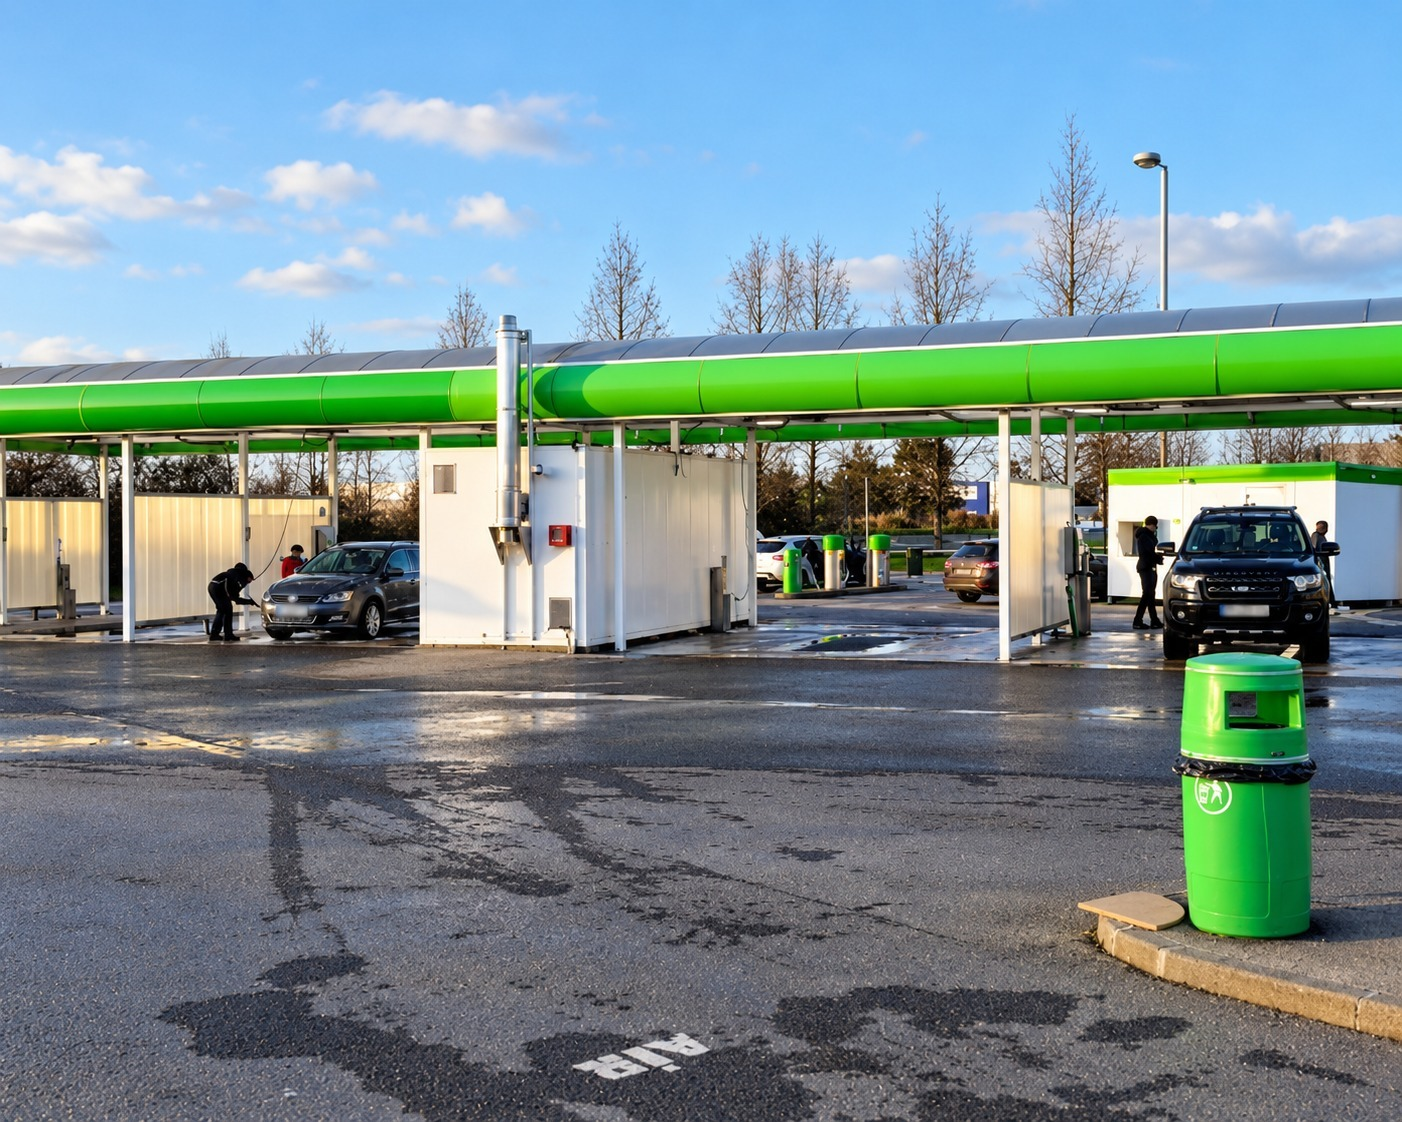
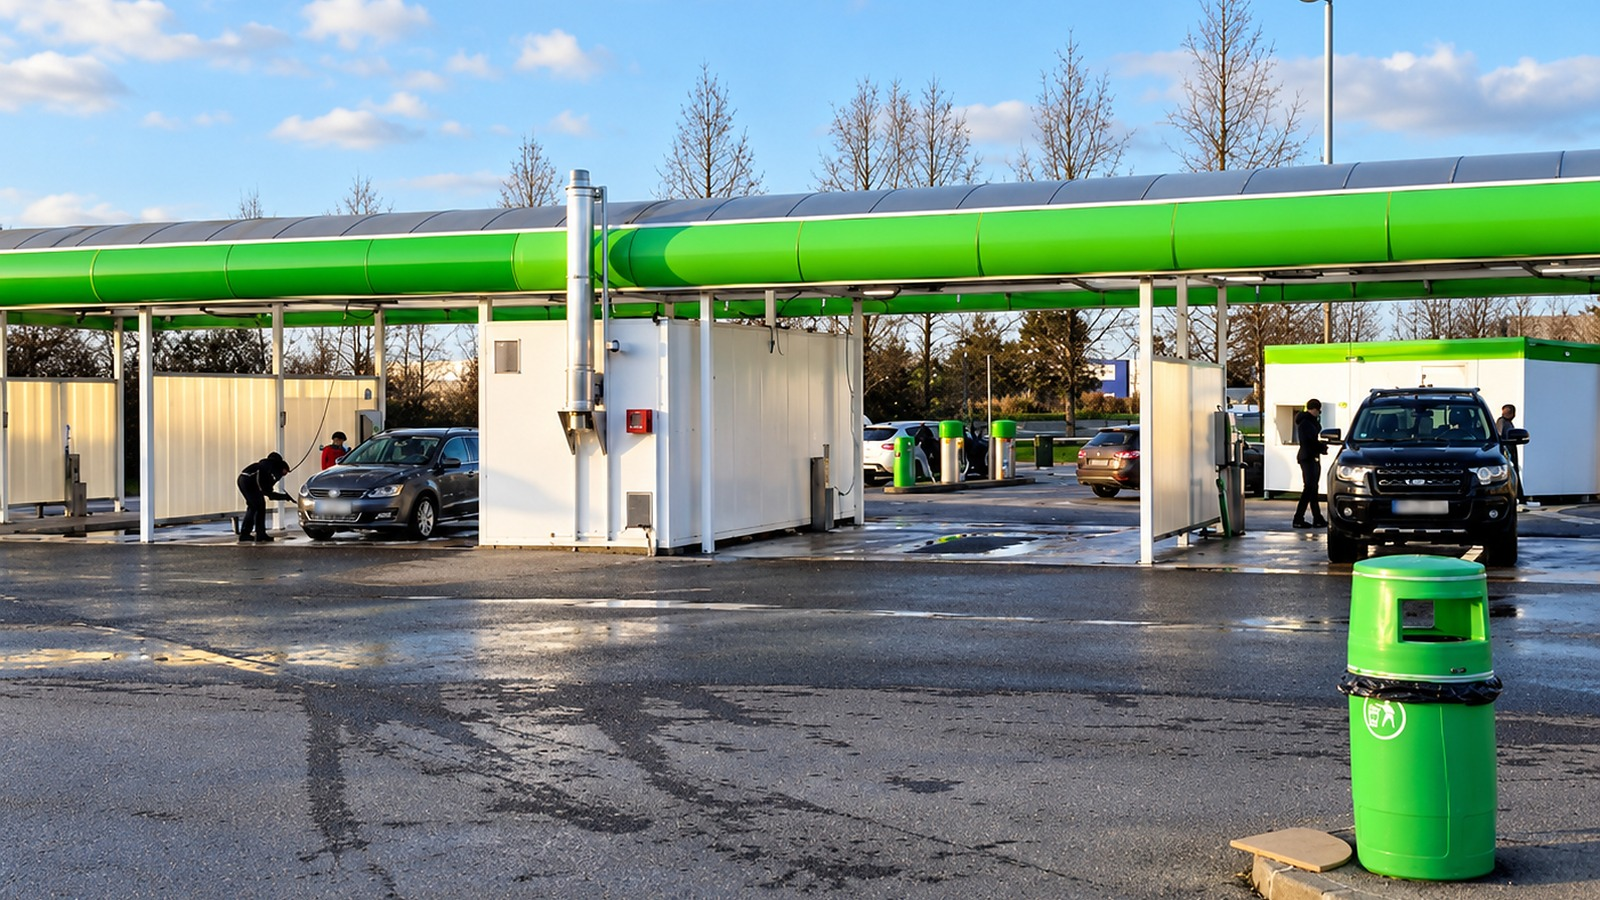
Photos HD, avis Google, paiement, nouvelle transition et ajustements
- Photos de la station remplacées par les versions haute résolution
- Avis Google réels intégrés (5 avis, recopiés à l'identique)
- Modes de paiement : carte bancaire, jetons à la borne, pièces de 1 et 2 €
- Transition « Eau · Mousse » : nouvelle DA sur fond carbone, texte
  lisible et centré
- Footer : filigrane H2AU centré
- Accueil : suppression du bloc « La station »
- Carte : centrée sur l'adresse exacte, avec l'adresse affichée dessus

diff --git a/components/home/WaterTransition.tsx b/components/home/WaterTransition.tsx
@@ -3,15 +3,34 @@
 import { useRef } from "react";
 import { m, useScroll, useTransform } from "framer-motion";
 
+const WORDS = ["Eau", "Mousse", "Pression", "Brillance"];
+const PLACES = ["H2AU", "Saint-Maximin", "24h/24"];
+
+function Line({ items, repeat = 4 }: { items: string[]; repeat?: number }) {
+  return (
+    <>
+      {Array.from({ length: repeat }, () => items)
+        .flat()
+        .map((w, i) => (
+          <span key={i} className="inline-flex items-center">
+            {w}
+            <span className="mx-[.35em] inline-block size-[.14em] rounded-full bg-h2au-bright shadow-[0_0_12px_var(--color-h2au-bright)]" />
+          </span>
+        ))}
+    </>
+  );
+}
+
 /**
- * Transition clair → anthracite → noir : une ligne d'eau traverse l'écran
- * pendant que les mots de la marque glissent en sens opposés.
+ * Transition entre les programmes (clair) et les équipements (sombre) :
+ * deux bandeaux de texte glissent en sens opposés sur fond carbone,
+ * traversés par une ligne d'eau.
  */
 export function WaterTransition() {
   const ref = useRef<HTMLDivElement>(null);
   const { scrollYProgress } = useScroll({ target: ref, offset: ["start end", "end start"] });
-  const x1 = useTransform(scrollYProgress, [0, 1], ["4%", "-38%"]);
-  const x2 = useTransform(scrollYProgress, [0, 1], ["-40%", "2%"]);
+  const x1 = useTransform(scrollYProgress, [0, 1], ["-8%", "-38%"]);
+  const x2 = useTransform(scrollYProgress, [0, 1], ["-38%", "-8%"]);
   const jet = useTransform(scrollYProgress, [0.2, 0.62], [0, 1]);
   const jetGlow = useTransform(scrollYProgress, [0.2, 0.5, 0.75], [0, 1, 0.4]);
 
@@ -19,30 +38,24 @@ export function WaterTransition() {
     <div
       ref={ref}
       aria-hidden="true"
-      className="relative h-[70vh] min-h-[420px] overflow-hidden md:h-[88vh]"
-      style={{
-        background:
-          "linear-gradient(180deg, var(--color-offwhite) 0%, #d9dedd 14%, #6f7777 34%, var(--color-anthracite) 56%, var(--color-carbon) 82%)",
-      }}
+      className="relative flex min-h-[340px] select-none flex-col justify-center gap-3 overflow-hidden bg-carbon py-20 md:min-h-[520px] md:gap-5"
     >
-      {/* mix-blend-mode: difference garantit un contraste visible quel que soit
-          l'endroit du dégradé (clair en haut, sombre en bas) où le texte tombe. */}
-      <div className="absolute inset-x-0 top-[26%] select-none whitespace-nowrap mix-blend-difference">
-        <m.p style={{ x: x1 }} className="t-mega text-outline !text-[clamp(4rem,15vw,15rem)] !leading-[.9] [-webkit-text-stroke-color:rgb(255_255_255/.5)]">
-          Eau · Mousse · Pression · Brillance · Eau · Mousse
-        </m.p>
-        <m.p style={{ x: x2 }} className="t-mega text-outline mt-2 !text-[clamp(4rem,15vw,15rem)] !leading-[.9] [-webkit-text-stroke-color:rgb(255_255_255/.5)]">
-          H2AU · Saint-Maximin · 24h/24 · H2AU · Saint-Maximin
-        </m.p>
+      <div aria-hidden="true" className="green-glow absolute left-1/2 top-1/2 -z-0 h-[70vmin] w-[70vmin] -translate-x-1/2 -translate-y-1/2 opacity-40" />
+
+      <m.p style={{ x: x1 }} className="t-mega relative whitespace-nowrap !text-[clamp(3rem,10vw,9rem)] !leading-[.95] text-white">
+        <Line items={WORDS} />
+      </m.p>
+
+      <div className="relative">
+        <m.div style={{ scaleX: jet, opacity: jetGlow }} className="jet-line h-[2px] origin-left" />
       </div>
 
-      <div className="absolute inset-x-0 top-[62%]">
-        <m.div style={{ scaleX: jet, opacity: jetGlow }} className="jet-line h-[2px] origin-left" />
-        <m.div
-          style={{ scaleX: jet, opacity: jetGlow }}
-          className="absolute -top-10 left-0 h-20 w-full origin-left bg-[radial-gradient(60%_50%_at_100%_50%,rgb(43_227_140/.2),transparent)]"
-        />
-      </div>
+      <m.p
+        style={{ x: x2 }}
+        className="t-mega text-outline relative whitespace-nowrap !text-[clamp(3rem,10vw,9rem)] !leading-[.95] [-webkit-text-stroke-color:var(--color-h2au-bright)]"
+      >
+        <Line items={PLACES} />
+      </m.p>
     </div>
   );
 }

diff --git a/data/reviews.ts b/data/reviews.ts
@@ -11,7 +11,39 @@ export type Review = {
   date: string; // ex. "mars 2026"
 };
 
-export const reviews: Review[] = [];
+/** Avis Google réels (captures fournies par l'exploitant). Date = mois de visite. */
+export const reviews: Review[] = [
+  {
+    firstName: "Annelise P.",
+    rating: 5,
+    text: "Trop contente de mon passage dans cette station de lavage, le personnel est trop sympa et super pro, ils aident pour l'utilisation des différents appareils, pour gonfler les pneus... La station de lavage est propres, les produits sont de bonnes qualités, mes jantes sont comme neuves 👍",
+    date: "décembre 2023",
+  },
+  {
+    firstName: "Fr H.",
+    rating: 5,
+    text: "Station de lavage idéalement située à côté du supermarché Cora ! Les jetons sont moins chers qu'ailleurs et le personnel au top en cas de soucis ! Je recommande vivement et pour ma part, je n'hésiterai pas à y retourner !",
+    date: "septembre 2023",
+  },
+  {
+    firstName: "Tom L.",
+    rating: 5,
+    text: "Station au top bien entretenu, convivial, produits et matériel toujours opérationnel, patronne toujours à l'écoute, très gentille, accueillante et très souriante. Matériel désinfecter régulièrement et désinfectant mains disponible à côté…",
+    date: "mars 2021",
+  },
+  {
+    firstName: "Emilie M.",
+    rating: 5,
+    text: "Je viens très régulièrement pour laver ma voiture au lavage automatique et pour l'aspirateur. Lavage automatique : Parfait 👍…",
+    date: "août 2024",
+  },
+  {
+    firstName: "C. S.",
+    rating: 5,
+    text: "J'ai habitude de laver mes voitures la bas depuis pas loin de 15 ans, jamais eu a me plaindre ça marche bien. La proprio actuelle est très cool et intervient direct en cas de problème ou propose un remboursement de la monnaie perdue…",
+    date: "juillet 2020",
+  },
+];
 
 /** Note relevée sur la fiche Google (capture fournie). Mettre à jour ou passer `show` à false. */
 export const googleRating = {

diff --git a/components/sections/Reviews.tsx b/components/sections/Reviews.tsx
@@ -47,21 +47,15 @@ export function Reviews() {
         </div>
       </div>
 
-      <ul className="relative grid gap-4 sm:grid-cols-2 lg:col-span-7 lg:block lg:min-h-[520px]">
+      <ul className="grid gap-4 sm:grid-cols-2 lg:col-span-7">
         {items.map((r, i) => (
           <li
             key={i}
             data-reveal="fade"
             style={{ ["--d" as string]: `${i * 140}ms` }}
-            className={cn(
-              "lg:absolute lg:w-[58%]",
-              i === 0 && "lg:left-0 lg:top-0",
-              i === 1 && "lg:right-0 lg:top-[30%]",
-              i === 2 && "lg:bottom-0 lg:left-[8%]",
-              i > 2 && "lg:hidden",
-            )}
+            className={cn(i === items.length - 1 && items.length % 2 === 1 && "sm:col-span-2")}
           >
-            <figure className="float-slow rounded-[var(--radius-medium)] border border-carbon/10 bg-white p-6 shadow-[0_30px_60px_-35px_rgb(7_9_9/.35)]" style={{ animationDelay: `${i * -2.3}s` }}>
+            <figure className="float-slow h-full rounded-[var(--radius-medium)] border border-carbon/10 bg-white p-6 shadow-[0_30px_60px_-35px_rgb(7_9_9/.35)]" style={{ animationDelay: `${i * -2.3}s` }}>
               {r ? (
                 <>
                   <Stars value={r.rating} className="text-h2au-deep" />

diff --git a/data/station.ts b/data/station.ts
@@ -39,8 +39,7 @@ export const station = {
 
   email: null as string | null,
 
-  // Modes de paiement : non communiqués. Ex. ["Carte bancaire", "Espèces"]
-  paymentMethods: [] as string[],
+  paymentMethods: ["Carte bancaire", "jetons à la borne", "pièces de 1 € et 2 €"] as string[],
 
   social: {
     instagram: null as string | null,
@@ -70,7 +69,8 @@ export const links = {
     ? `https://www.google.com/maps/dir/?api=1&destination=${station.geo.lat},${station.geo.lng}`
     : `https://www.google.com/maps/dir/?api=1&destination=${mapsQuery}`,
   maps: `https://www.google.com/maps/search/?api=1&query=${mapsQuery}`,
-  mapEmbed: `https://www.google.com/maps?q=${mapsQuery}&output=embed`,
+  // la carte pointe sur l'adresse exacte de la station
+  mapEmbed: `https://www.google.com/maps?q=${encodeURIComponent(`${fullAddress}, France`)}&z=16&output=embed`,
   googleReviews: `https://www.google.com/maps/search/?api=1&query=${mapsQuery}`,
 };
 

diff --git a/components/layout/Footer.tsx b/components/layout/Footer.tsx
@@ -83,8 +83,8 @@ export function Footer() {
           </div>
         </div>
 
-        <div aria-hidden="true" className="pointer-events-none mt-16 select-none text-center leading-none text-white/[.06]">
-          <Wordmark className="block text-[29vw] lg:text-[23vw] [&_.wordmark-2]:text-h2au/25" />
+        <div aria-hidden="true" className="pointer-events-none mt-16 flex select-none justify-center leading-none text-white/[.06]">
+          <Wordmark className="inline-block pl-[.04em] text-[clamp(5rem,22vw,19rem)] [&_.wordmark-2]:text-h2au/25" />
         </div>
 
         <div className="mt-6 flex flex-col items-center gap-4 border-t border-white/10 pt-6 text-center text-sm text-metal md:flex-row md:justify-center md:gap-8">

diff --git a/app/page.tsx b/app/page.tsx
@@ -6,7 +6,6 @@ import { WaterTransition } from "@/components/home/WaterTransition";
 import { Equipment } from "@/components/home/Equipment";
 import { WashSequence } from "@/components/home/WashSequence";
 import { BeforeAfter } from "@/components/home/BeforeAfter";
-import { StationBlock } from "@/components/home/StationBlock";
 import { GallerySection } from "@/components/home/GallerySection";
 import { Open24 } from "@/components/home/Open24";
 import { WhyH2AU } from "@/components/home/WhyH2AU";
@@ -42,7 +41,6 @@ export default function HomePage() {
       <Equipment />
       <WashSequence />
       <BeforeAfter />
-      <StationBlock />
       <GallerySection />
       <Open24 />
       <WhyH2AU />

diff --git a/components/sections/StationMap.tsx b/components/sections/StationMap.tsx
@@ -13,6 +13,16 @@ export function StationMap({ className, wide = false }: { className?: string; wi
         referrerPolicy="no-referrer-when-downgrade"
         allowFullScreen
       />
+      <a
+        href={links.directions}
+        target="_blank"
+        rel="noopener noreferrer"
+        className="absolute bottom-3 left-3 right-3 rounded-[var(--radius-small)] bg-carbon/90 px-4 py-3 text-sm text-white backdrop-blur hover:bg-carbon sm:right-auto"
+      >
+        <span className="block font-bold">{station.name}</span>
+        {fullAddress} · {station.address.complement}
+        <span className="sr-only"> (itinéraire, nouvel onglet)</span>
+      </a>
     </div>
   );
 }

diff --git a/README.md b/README.md
@@ -55,13 +55,12 @@ Pour activer le comparateur avant/après avec de vraies photos : renseigner `bef
 ## Informations à fournir par la station
 
 - Contenu des 3 programmes (prestations, options, durée).
-- Modes de paiement.
 - Confirmation de l'adresse (relevée sur Google) et coordonnées GPS.
 - Confirmation des horaires 7j/7 (le site affiche « 24h/24, 7j/7 »).
 - Équipements disponibles en plus des rouleaux et de l'aspiration (haute pression, mousse, lustrage…).
 - Informations légales (raison sociale, SIRET, RCS, TVA, directeur de publication, hébergeur), e-mail.
 - Durée de conservation des messages et prestataire du formulaire (politique de confidentialité).
-- Réseaux sociaux, avis clients à mettre en avant, photos HD.
+- Réseaux sociaux, photos HD du portique et de l'aspiration.
 
 ## Organisation du code
 
